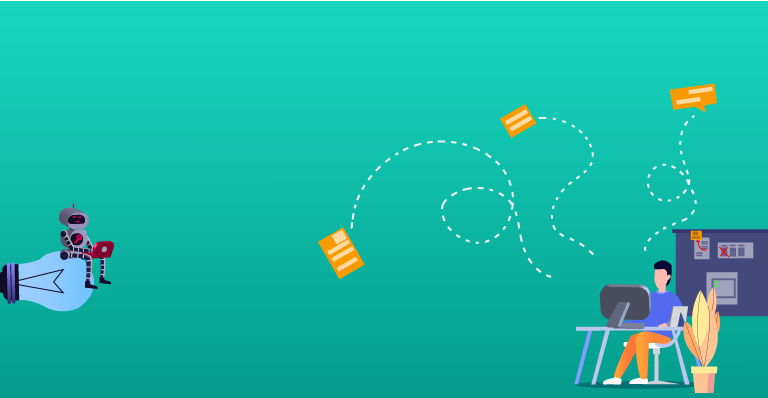
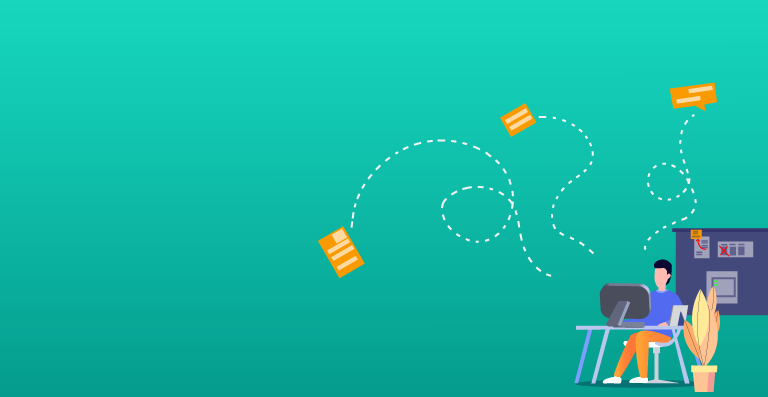
fixing footer design

diff --git a/src/home/footer/responsive-home-footer.css b/src/home/footer/responsive-home-footer.css
@@ -1,7 +1,7 @@
 @media only screen and (min-width: 200px) and (max-width: 767px) {
 
     .footer-image {
-        background-image: url(./iphone7.png);
+        background-image: url(./iphonefooter.png);
         height: 230px;
         width: 100%;
 
@@ -30,17 +30,17 @@
 @media only screen and (min-width: 1024px) and (max-width: 1280px) {
 
     .footer-image {
-        background-image: url(./commonDesktop.png);
+        background-image: url(./footer-common.png);
 
 
     }
 }
 
-@media only screen and (min-width: 1281px) and (max-width: 1680px) {
+@media only screen and (min-width: 1281px) {
 
 
     .footer-image {
-        background-image: url(./commonDesktop.png);
+        background-image: url(./footer-new.png);
 
     }
 }

diff --git a/src/home/footer/footer.css b/src/home/footer/footer.css
@@ -1,5 +1,5 @@
 .footer-image {
-    background-image: url(./commonDesktop.png);
+    background-image: url(./footer-common.png);
     background-repeat: no-repeat;
     background-position: center;
     background-size: cover;
@@ -14,7 +14,7 @@
 
 #Subscribe {
     display: flex;
-    padding-top: 200px;
+    padding-top: 50px;
     padding-left: 95px;
     color: white;
 }
@@ -25,12 +25,14 @@
     padding-left: 20px;
     border-radius: 15px;
     height: 50px;
-    width: 25vw;
+    width: 17vw;
     background-color: white;
 }
 
 .input-footer {
     border: none;
+
+
 }
 
 .input-footer:focus {

diff --git a/src/home/header/responsive-home-header.css b/src/home/header/responsive-home-header.css
@@ -10,7 +10,7 @@
 @media only screen and (min-width: 525px) and (max-width: 767px) {
     .header-design {
 
-        background-image: url(./750-1334.png);
+        background-image: url(./ipad2.png);
         height: 1000px;
 
     }
